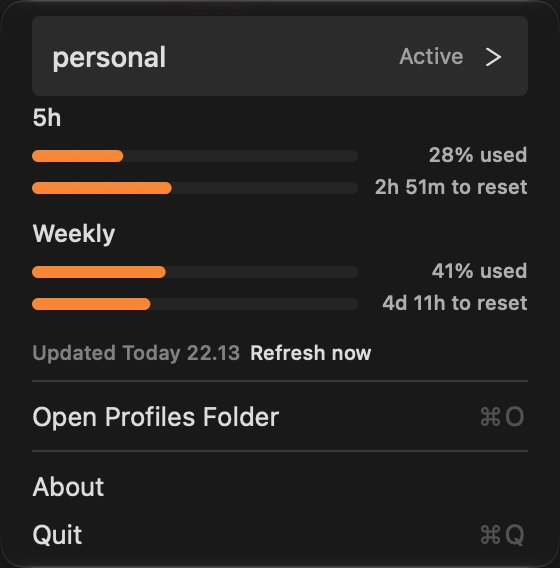
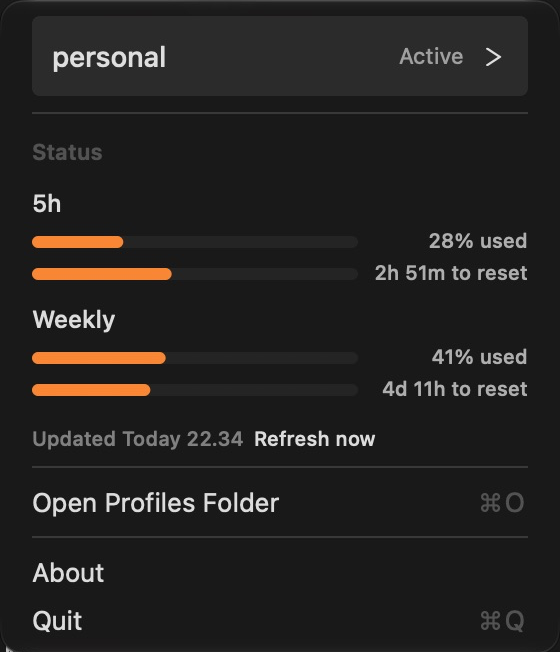
Add native Status section below account selector

diff --git a/CodexAccountSwitcher.swift b/CodexAccountSwitcher.swift
@@ -393,7 +393,7 @@ private final class AccountMenuItemView: NSView {
 private final class UsageBarsMenuView: NSView {
     private static let menuWidth = MenuLayout.width
     private static let horizontalPadding = MenuLayout.horizontalPadding
-    private static let topPadding: CGFloat = 0
+    private static let topPadding: CGFloat = 8
     private static let rowHeight: CGFloat = 58
     private static let footerHeight: CGFloat = 18
     private static let barHeight: CGFloat = 6
@@ -960,6 +960,20 @@ final class AppDelegate: NSObject, NSApplicationDelegate, NSMenuDelegate {
         selectorItem.submenu = accountsSubmenu(profiles: profiles, activeProfile: activeProfile)
         selectorItem.view = AccountSubmenuView(activeProfile: activeProfile)
         menu.addItem(selectorItem)
+
+        menu.addItem(.separator())
+        let statusHeader: NSMenuItem
+        if #available(macOS 14.0, *) {
+            statusHeader = .sectionHeader(title: "Status")
+        } else {
+            statusHeader = NSMenuItem(title: "Status", action: nil, keyEquivalent: "")
+            statusHeader.attributedTitle = NSAttributedString(string: "Status", attributes: [
+                .font: NSFont.systemFont(ofSize: NSFont.smallSystemFontSize, weight: .semibold),
+                .foregroundColor: NSColor.secondaryLabelColor
+            ])
+            statusHeader.isEnabled = false
+        }
+        menu.addItem(statusHeader)
 
         if !activeProfile.isEmpty {
             addUsageItems(to: menu, snapshot: usageByProfile[activeProfile])
